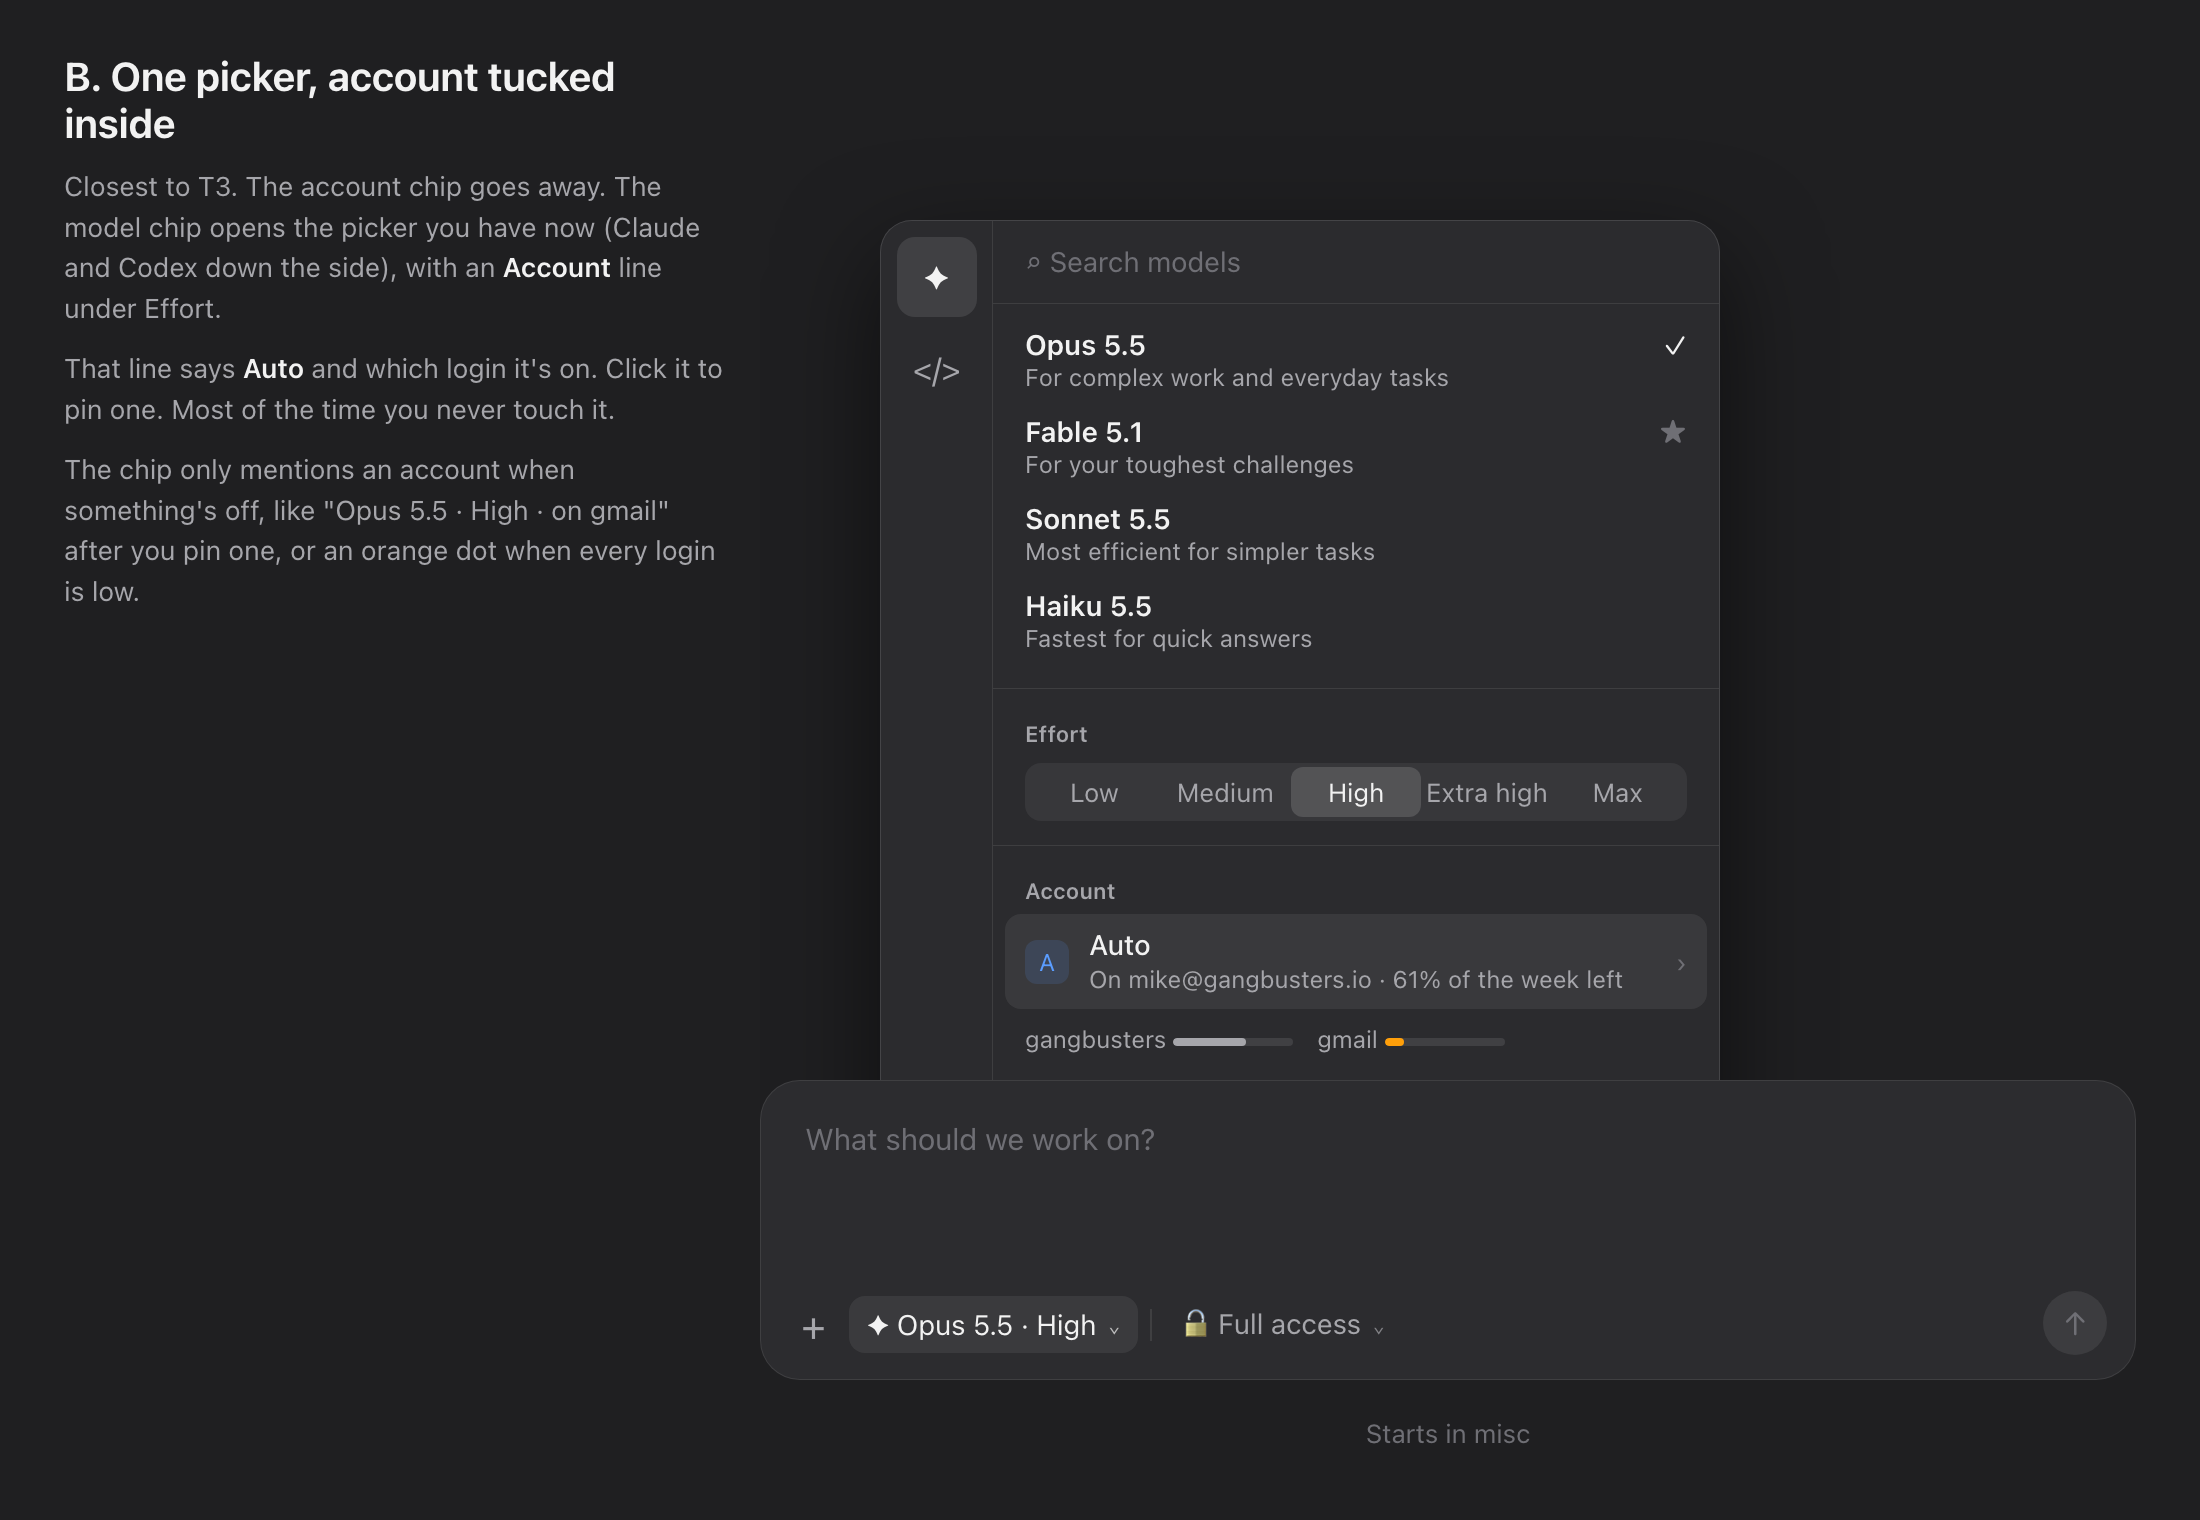
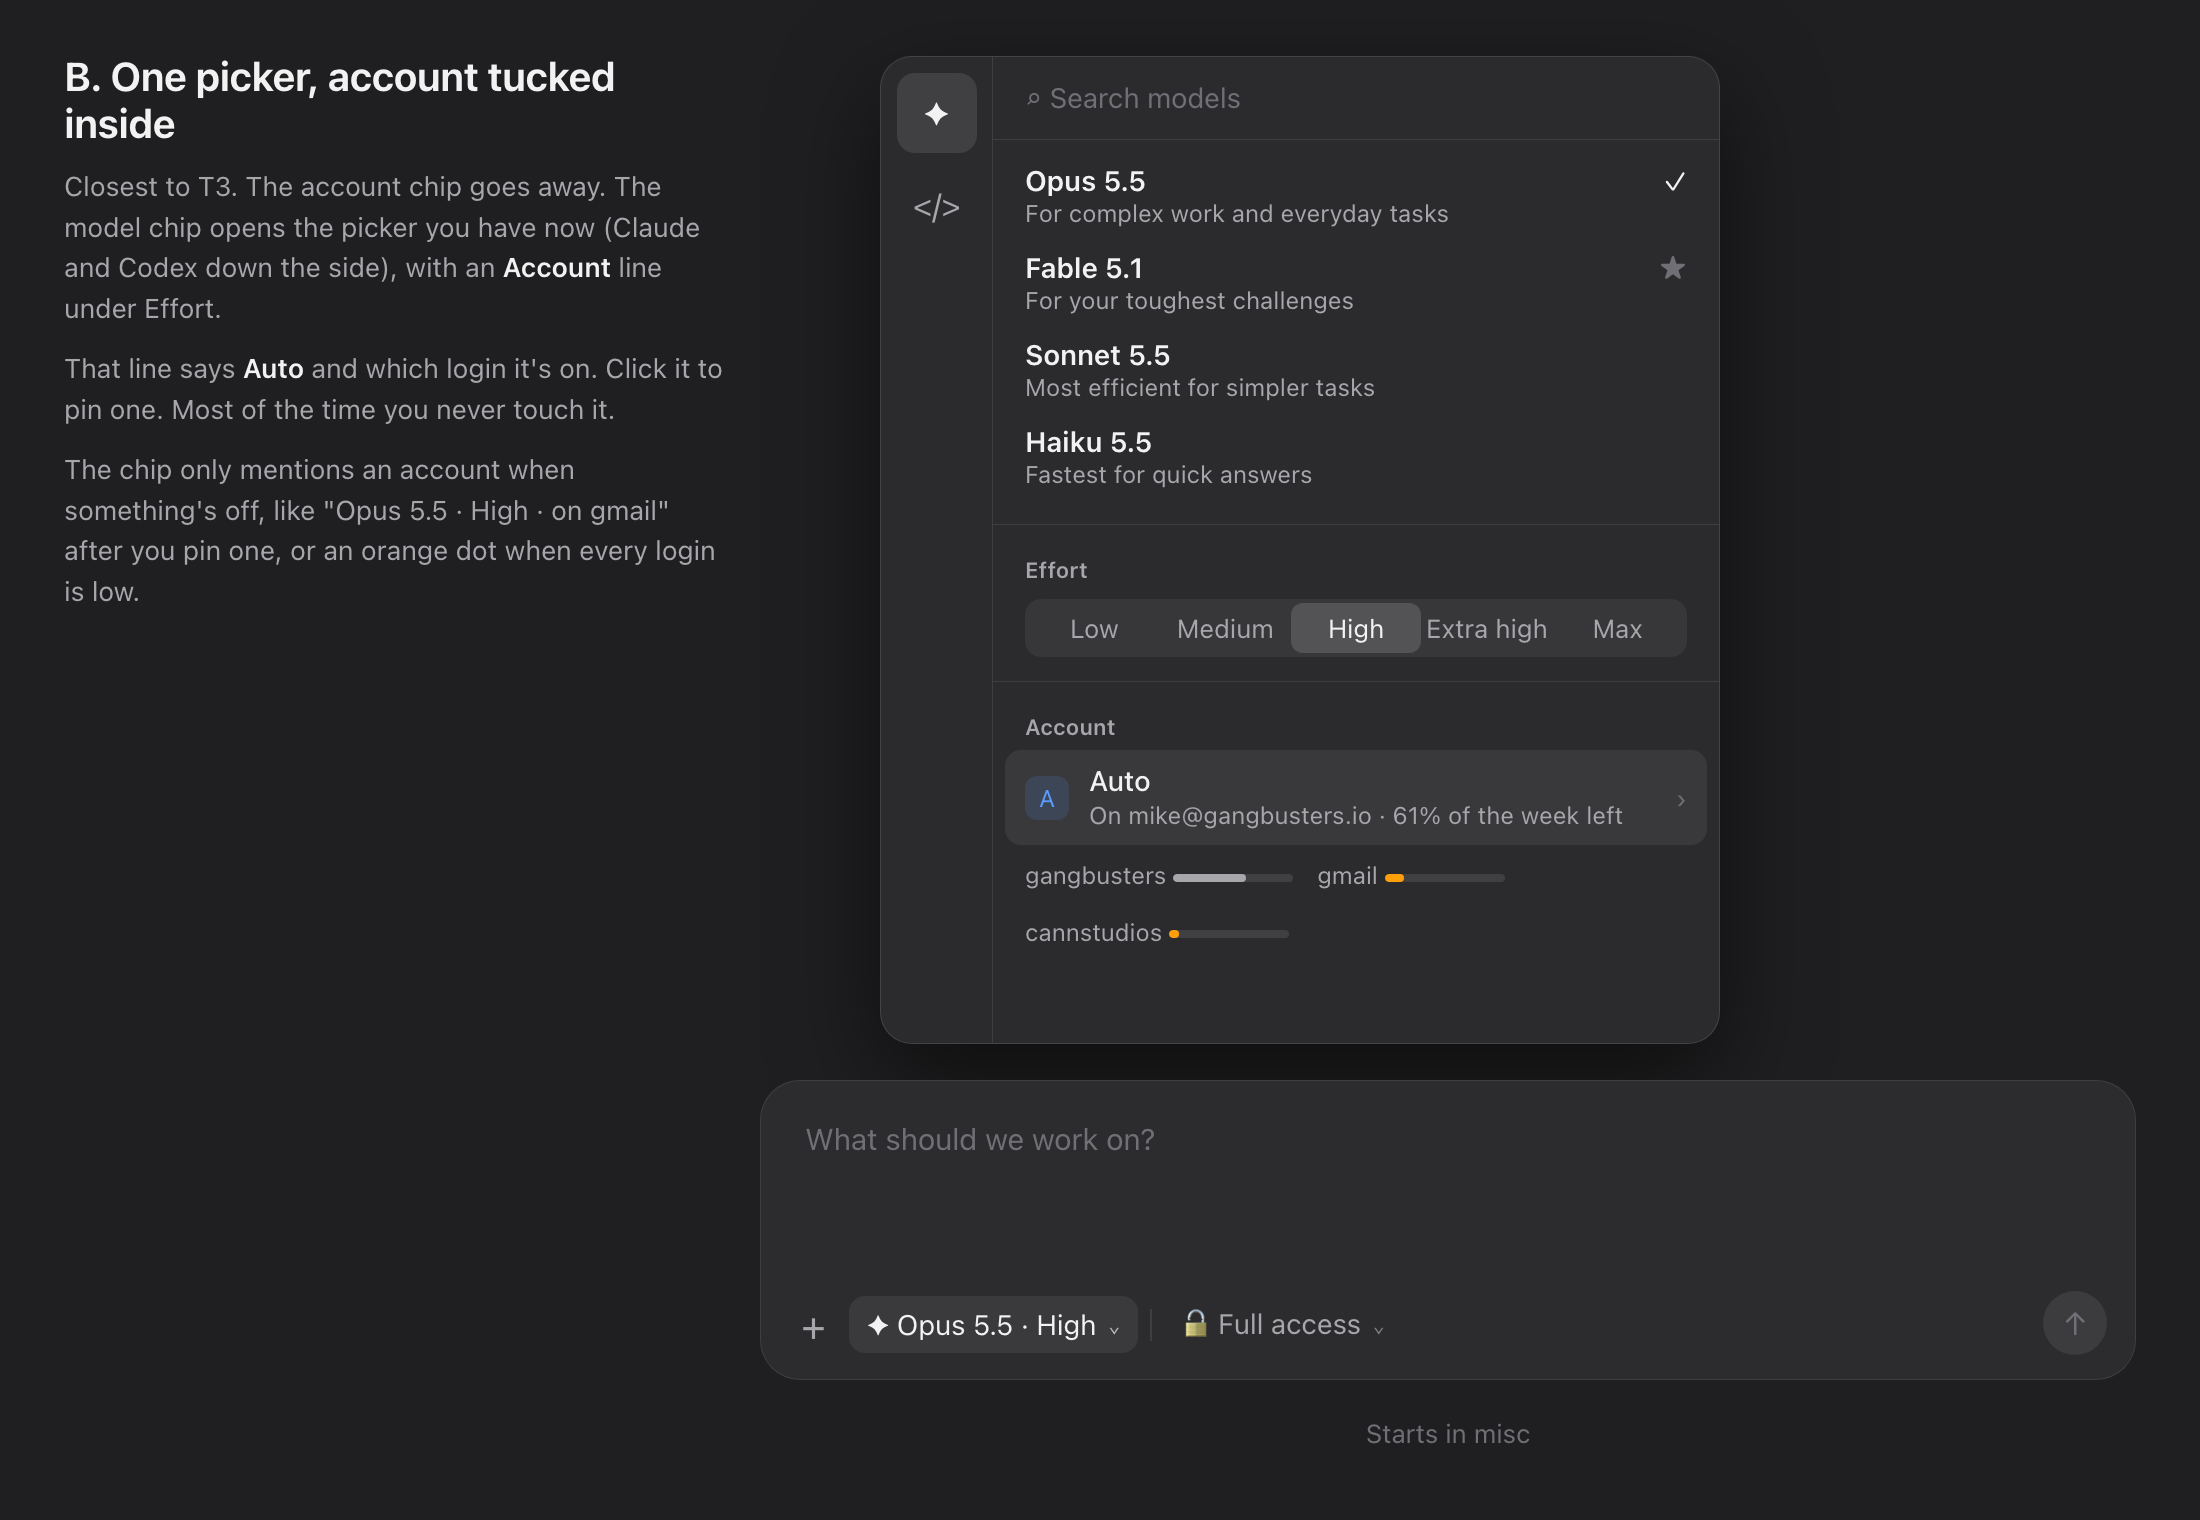
Account picker concepts: keep the popovers clear of the composer

diff --git a/docs/account-picker-design/3-pools.html b/docs/account-picker-design/3-pools.html
@@ -6,7 +6,7 @@
   <p>Folders choose the pool: anything in ~/dev/convex starts on Convex, everything else on Claude. Logins live in Settings, and a sidebar row only shows the email on hover.</p>
 </div>
 
-<div class="pop" style="left:440px; top:170px; width:440px; height:440px;">
+<div class="pop" style="left:440px; top:80px; width:440px; height:440px;">
   <div class="rail" style="width:96px">
     <div class="rb on" style="width:80px; height:52px; flex-direction:column; display:flex; justify-content:center; align-items:center; gap:2px"><span style="font-size:13px">Claude</span><span style="font-size:10px; color:var(--secondary)">3 · 61%</span></div>
     <div class="rb" style="width:80px; height:52px; flex-direction:column; display:flex; justify-content:center; align-items:center; gap:2px"><span style="font-size:13px">Convex</span><span style="font-size:10px; color:var(--tertiary)">1 · 65%</span></div>

diff --git a/docs/account-picker-design/2-one-picker.html b/docs/account-picker-design/2-one-picker.html
@@ -6,7 +6,7 @@
   <p>The chip only mentions an account when something's off, like "Opus 5.5 · High · on gmail" after you pin one, or an orange dot when every login is low.</p>
 </div>
 
-<div class="pop" style="left:440px; top:110px; width:420px; height:500px;">
+<div class="pop" style="left:440px; top:28px; width:420px; height:494px;">
   <div class="rail"><div class="rb on">✦</div><div class="rb">&lt;/&gt;</div></div>
   <div style="margin-left:56px">
     <div class="search">⌕ Search models</div>
